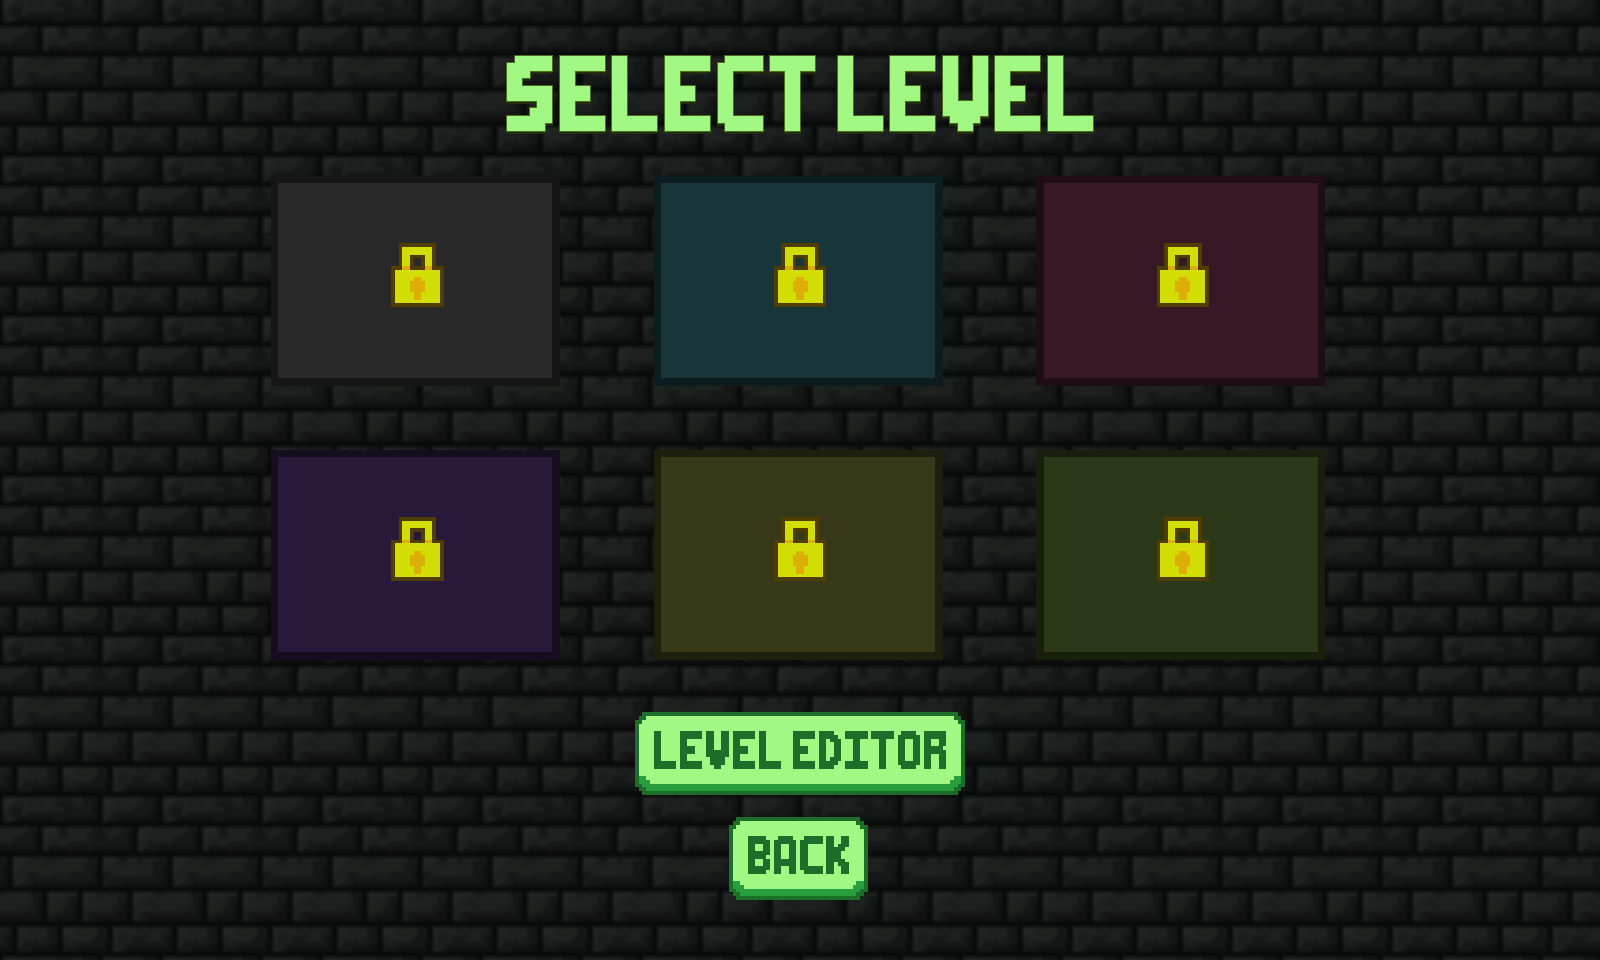
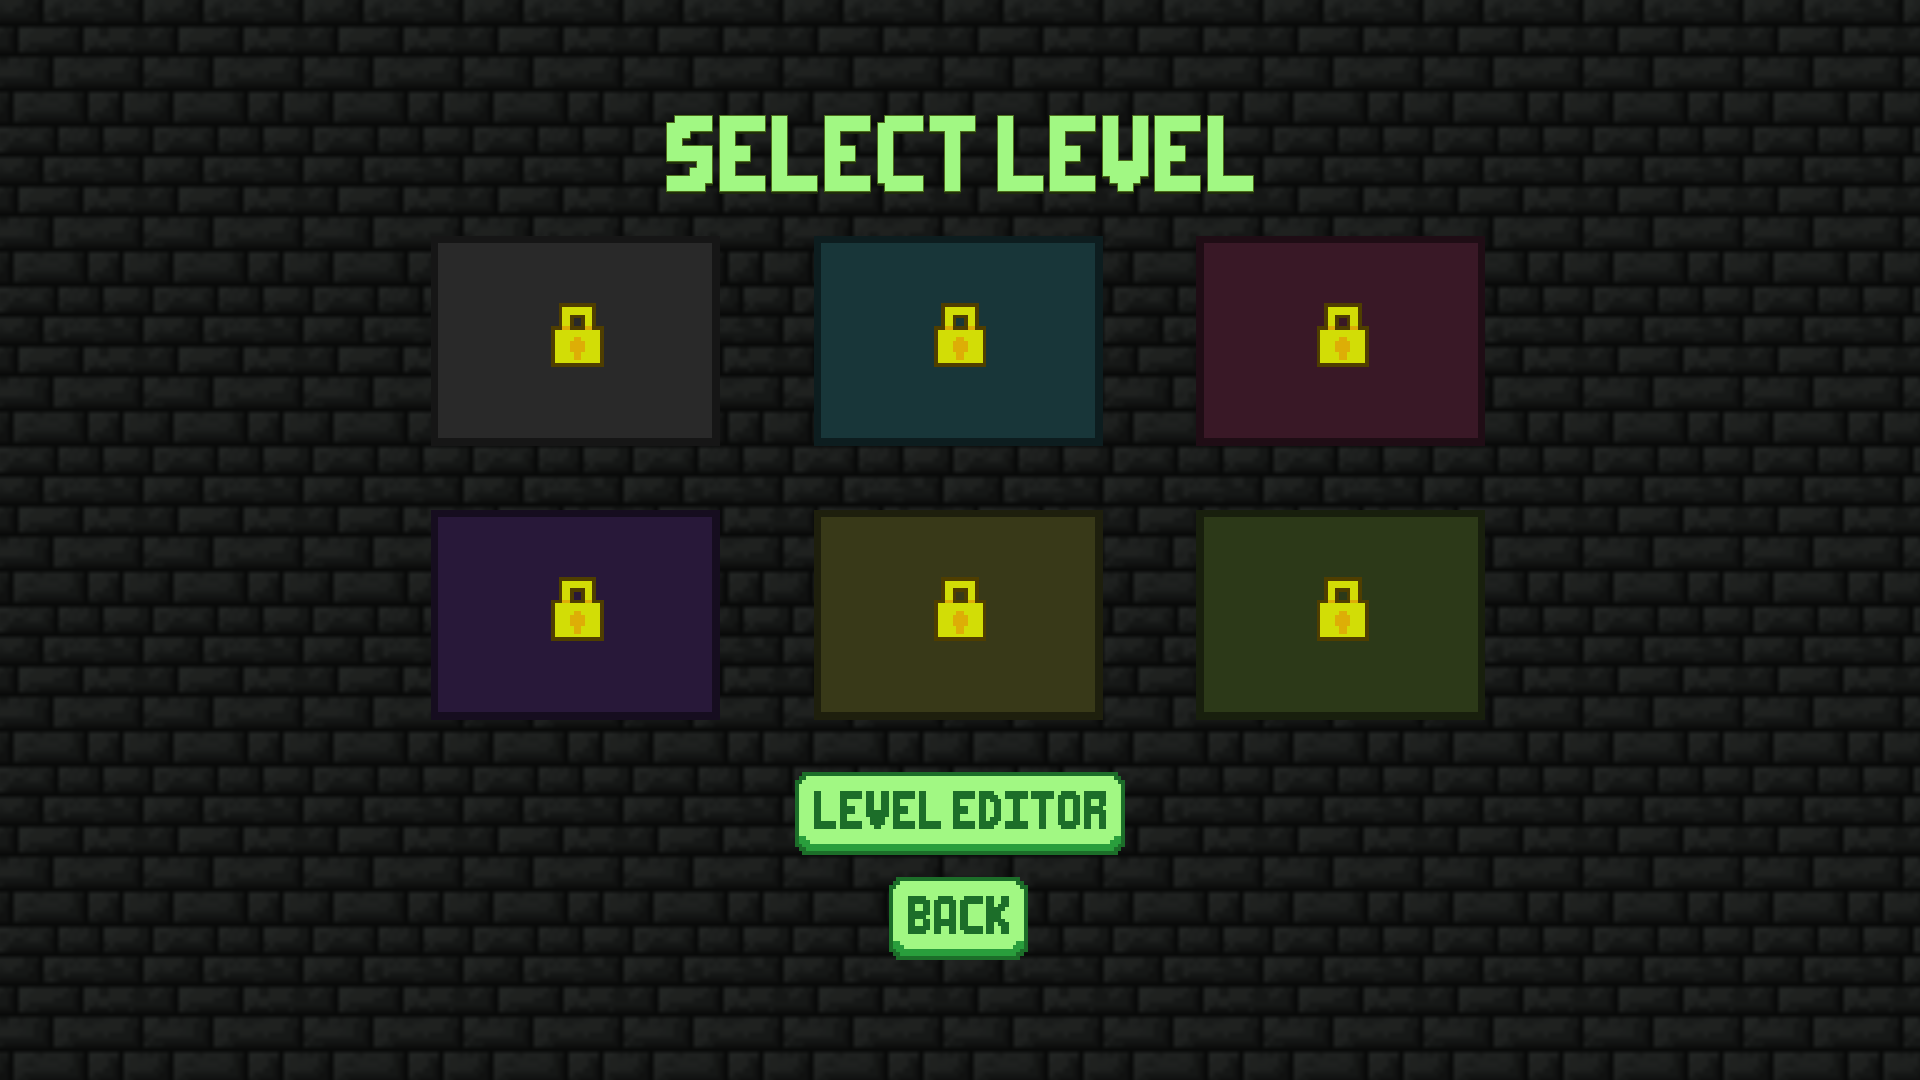
full screen

diff --git a/core/src/main/java/io/github/puzzle_dash/MainMenuScreen.java b/core/src/main/java/io/github/puzzle_dash/MainMenuScreen.java
@@ -36,13 +36,11 @@ public class MainMenuScreen implements Screen {
     Texture exitbuttonTexture;
     ImageButton button4;
 
-
     MainMenuScreen(final PuzzleDashGame game) {
         this.game = game;
 
         mainmenuTexture = new Texture("main-menu.png");
         batch = new SpriteBatch();
-
 
         mainmenusprite = new Sprite(mainmenuTexture);
         mainmenusprite.setPosition(0, 0);
@@ -53,13 +51,13 @@ public class MainMenuScreen implements Screen {
         Gdx.input.setInputProcessor(stage);
 
         // Play button texture
-        playbuttonTexture = new Texture("play-button.png");
+        playbuttonTexture = new Texture("play-button (2).png");
         playbuttonsprite = new Sprite(playbuttonTexture);
         TextureRegion buttonRegion1 = new TextureRegion(playbuttonTexture);
         TextureRegionDrawable buttonDrawable1 = new TextureRegionDrawable(buttonRegion1);
         button1 = new ImageButton(buttonDrawable1);
-        button1.setSize(180, 81);
-        button1.setPosition(708, 404);
+        button1.setSize(149, 82);
+        button1.setPosition(885, 477);
 
         button1.addListener(new ClickListener() {
             @Override
@@ -78,8 +76,8 @@ public class MainMenuScreen implements Screen {
         TextureRegion buttonRegion2 = new TextureRegion(levelbuttonTexture);
         TextureRegionDrawable buttonDrawable2 = new TextureRegionDrawable(buttonRegion2);
         button2 = new ImageButton(buttonDrawable2);
-        button2.setPosition(698, 313);
         button2.setSize(209, 84);
+        button2.setPosition(858, 385);
 
         button2.addListener(new ClickListener() {
             @Override
@@ -99,7 +97,7 @@ public class MainMenuScreen implements Screen {
         TextureRegionDrawable buttonDrawable3 = new TextureRegionDrawable(buttonRegion3);
         button3 = new ImageButton(buttonDrawable3);
         button3.setSize(277, 85);
-        button3.setPosition(659, 224);
+        button3.setPosition(819, 294);
 
         button3.addListener(new ClickListener() {
             @Override
@@ -119,7 +117,7 @@ public class MainMenuScreen implements Screen {
         TextureRegionDrawable buttonDrawable4 = new TextureRegionDrawable(buttonRegion4);
         button4 = new ImageButton(buttonDrawable4);
         button4.setSize(181, 82);
-        button4.setPosition(708, 138);
+        button4.setPosition(863, 203);
 
 
         button4.addListener(new ClickListener() {
@@ -150,7 +148,6 @@ public class MainMenuScreen implements Screen {
         mainmenusprite.draw(batch);
 
         batch.end();
-
 
         // Draw the stage (buttons)
         stage.act(Gdx.graphics.getDeltaTime());
@@ -191,6 +188,5 @@ public class MainMenuScreen implements Screen {
         levelbuttonTexture.dispose();
         creditsbuttonTexture.dispose();
         exitbuttonTexture.dispose();
-
     }
 }

diff --git a/core/src/main/java/io/github/puzzle_dash/LevelsScreen.java b/core/src/main/java/io/github/puzzle_dash/LevelsScreen.java
@@ -44,7 +44,7 @@ public class LevelsScreen implements Screen {
         TextureRegionDrawable buttonDrawable5 = new TextureRegionDrawable(buttonRegion5);
         button5 = new ImageButton(buttonDrawable5);
         button5.setSize(330, 83);
-        button5.setPosition(635, 155);
+        button5.setPosition(795, 220);
         button5.addListener(new ClickListener() {
             @Override
             public void clicked(InputEvent event, float x, float y) {
@@ -62,7 +62,7 @@ public class LevelsScreen implements Screen {
         TextureRegionDrawable buttonDrawable6 = new TextureRegionDrawable(buttonRegion6);
         button6 = new ImageButton(buttonDrawable6);
         button6.setSize(139, 83);
-        button6.setPosition(730, 52);
+        button6.setPosition(890, 114);
         button6.addListener(new ClickListener() {
             @Override
             public void clicked(InputEvent event, float x, float y) {

diff --git a/lwjgl3/src/main/java/io/github/puzzle_dash/lwjgl3/Lwjgl3Launcher.java b/lwjgl3/src/main/java/io/github/puzzle_dash/lwjgl3/Lwjgl3Launcher.java
@@ -9,7 +9,7 @@ public class Lwjgl3Launcher {
     public static void main(String[] args) {
         Lwjgl3ApplicationConfiguration config = new Lwjgl3ApplicationConfiguration();
         config.setTitle("Puzzle Dash");
-        config.setWindowedMode(1600, 900);
+        config.setWindowedMode(1920, 1080);
         new Lwjgl3Application(new PuzzleDashGame(), config);
         config.useVsync(true);
         config.setWindowIcon("puzzle_dash128.png", "puzzle_dash64.png", "puzzle_dash32.png", "puzzle_dash16.png");
